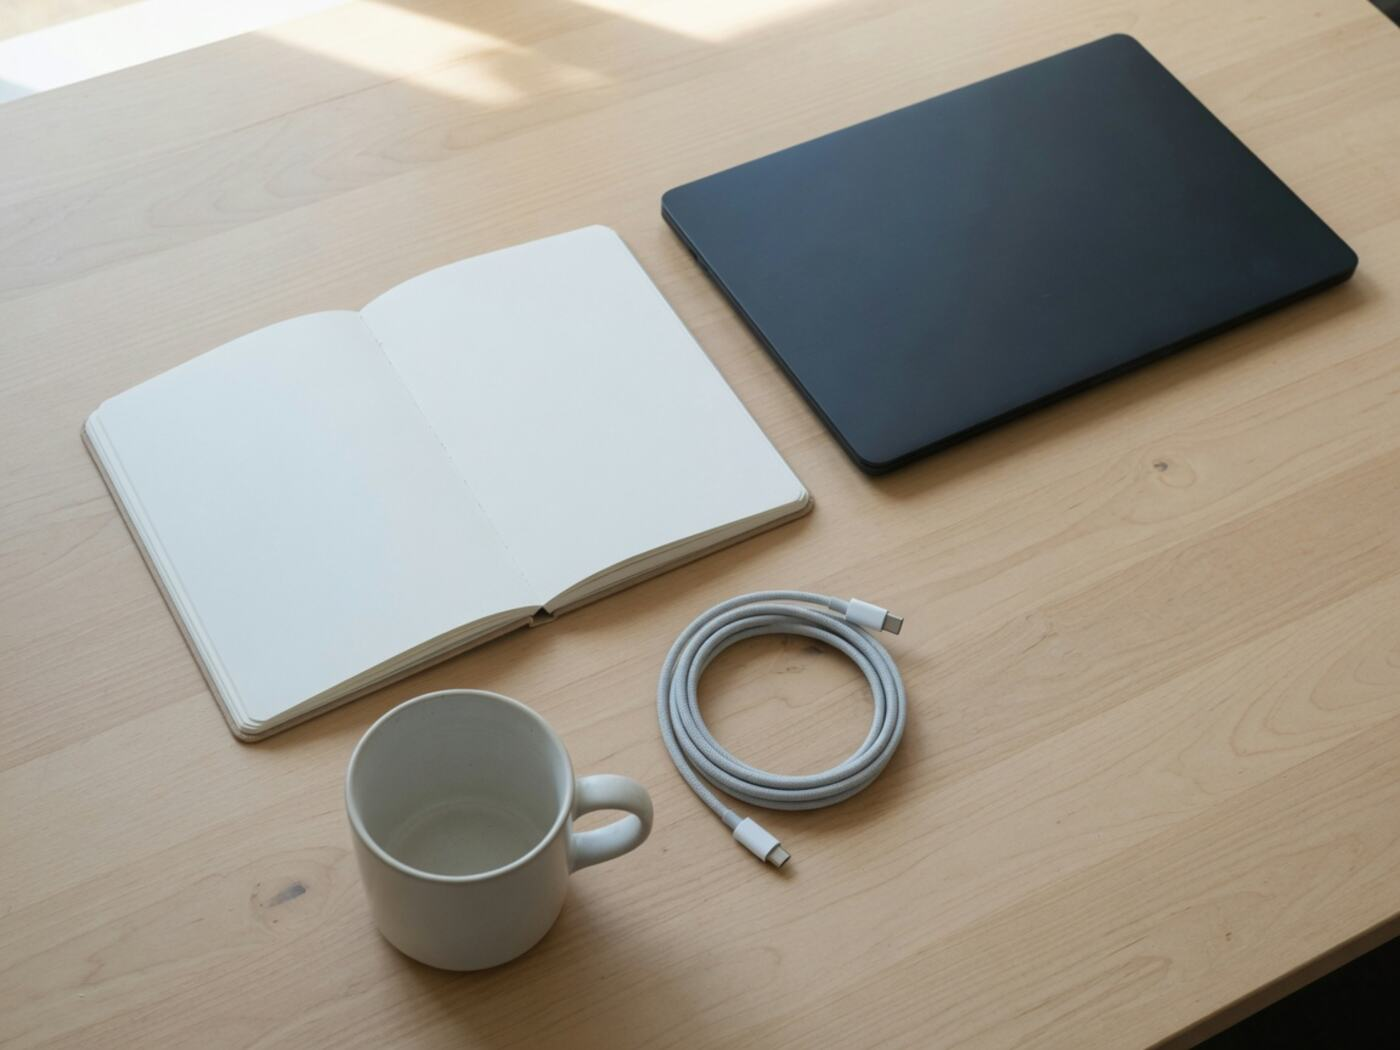
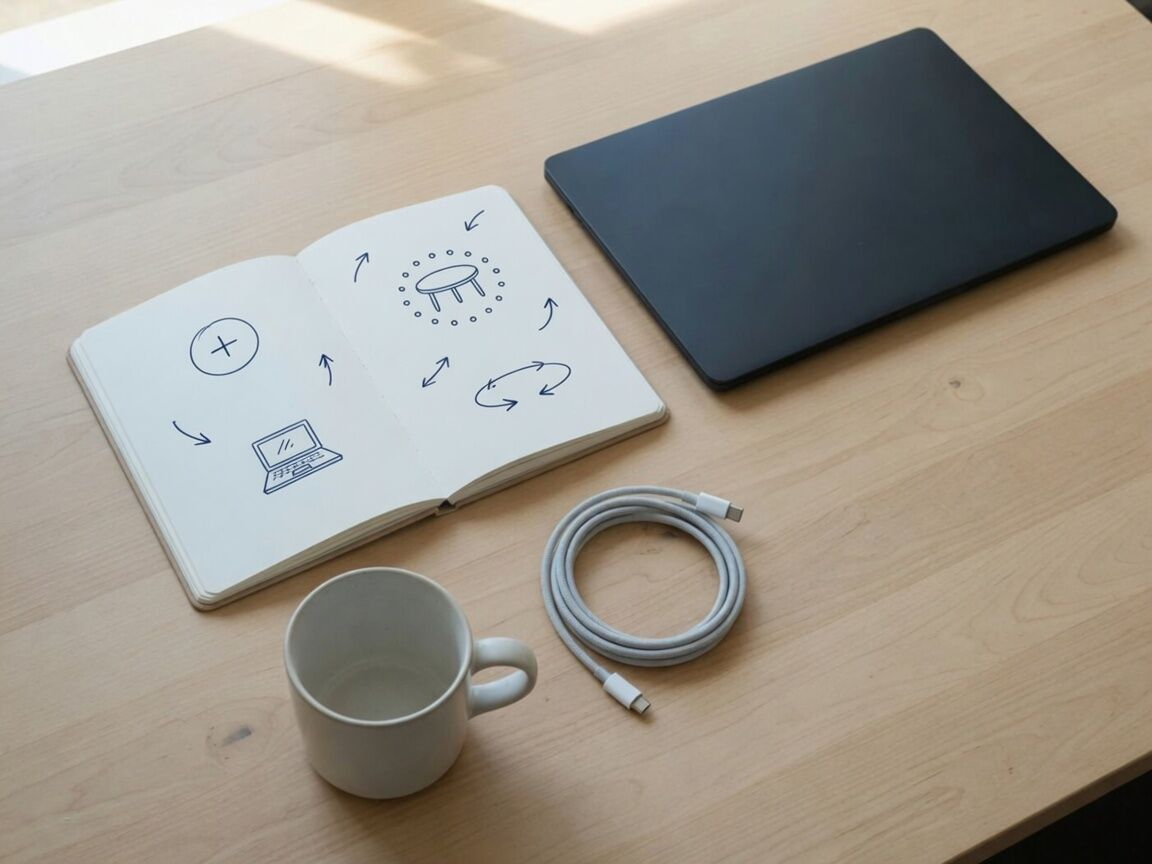
Make workshop option 1 the live look and doodle the table notebook.
Homepage uses the Berlin daylight room and a close-up with simple
peer-group sketches on the open pages.

diff --git a/assets/site.css b/assets/site.css
@@ -6,21 +6,21 @@
 @font-face{font-family:Fraunces;font-style:italic;font-weight:400 500;font-display:swap;src:url(/assets/fonts/fraunces-italic-latin-ext.woff2) format("woff2");unicode-range:U+0100-02BA,U+02BD-02C5,U+02C7-02CC,U+02CE-02D7,U+02DD-02FF,U+0304,U+0308,U+0329,U+1D00-1DBF,U+1E00-1E9F,U+1EF2-1EFF,U+2020,U+20A0-20AB,U+20AD-20C0,U+2113,U+2C60-2C7F,U+A720-A7FF}
 
 :root{
-  --paper:#f3ead6;
-  --paper-2:#e7dcc4;
-  --ink:#1b1812;
-  --muted:#5c564a;
-  --line:#d3c4a8;
-  --green:#143528;
-  --green-hover:#0e261c;
-  --lime:#ead9a6;
-  --brass:#a98443;
-  --white:#fbf6ea;
+  --paper:#f3f1ec;
+  --paper-2:#e6e3dc;
+  --ink:#171614;
+  --muted:#5a5852;
+  --line:#d0cdc6;
+  --green:#1a1a1a;
+  --green-hover:#000;
+  --lime:#e4e1d8;
+  --brass:#444;
+  --white:#fafaf7;
   --rust:#9a3f28;
-  --radius:4px;
+  --radius:0;
   --max:1120px;
   --font:"Figtree",system-ui,sans-serif;
-  --display:"Fraunces",Georgia,serif;
+  --display:"Figtree",system-ui,sans-serif;
 }
 *{box-sizing:border-box}
 html{scroll-behavior:smooth;scroll-padding-top:96px}
@@ -32,7 +32,7 @@ button{cursor:pointer}
 button:disabled{cursor:wait;opacity:.55}
 a:focus-visible,button:focus-visible,input:focus-visible,textarea:focus-visible,select:focus-visible,summary:focus-visible{outline:3px solid var(--brass);outline-offset:4px}
 h1,h2,h3,p{margin:0}
-h1,h2,h3{font-family:var(--display);font-weight:500;line-height:1.08;letter-spacing:-.03em}
+h1,h2,h3{font-family:var(--display);font-weight:650;line-height:1.08;letter-spacing:-.04em}
 h2{font-size:clamp(34px,4.4vw,52px)}
 h3{font-size:24px;letter-spacing:-.02em}
 p+p{margin-top:14px}
@@ -50,7 +50,7 @@ p+p{margin-top:14px}
 .skip:focus{top:10px}
 .preview-bar{background:#e4d8bc;color:#534b3c;text-align:center;font-size:12px;padding:8px 16px;border-bottom:1px solid var(--line);line-height:1.5}
 .preview-bar strong{font-weight:700}
-.header{position:sticky;top:0;z-index:20;background:rgba(243,234,214,.92);backdrop-filter:saturate(1.15) blur(12px);border-bottom:1px solid var(--line)}
+.header{position:sticky;top:0;z-index:20;background:rgba(243,241,236,.94);backdrop-filter:saturate(1.15) blur(12px);border-bottom:1px solid var(--line)}
 .nav{height:76px;display:flex;align-items:center;justify-content:space-between;gap:24px}
 .brand{display:inline-flex;align-items:center;gap:10px;text-decoration:none;white-space:nowrap;font-size:17px;font-weight:650;letter-spacing:-.03em}
 .brand-symbol{display:flex;align-items:center;justify-content:center;width:28px;height:28px;border:1.5px solid var(--green);border-radius:50%;font-size:20px;line-height:1;color:var(--green);font-weight:500;background:var(--white)}
@@ -59,7 +59,7 @@ p+p{margin-top:14px}
 .nav-links{display:flex;gap:22px;align-items:center}
 .nav-links>a:not(.btn){font-size:14px;text-decoration:none;min-height:44px;display:inline-flex;align-items:center}
 .nav-links>a:not(.btn):hover{text-decoration:underline;text-underline-offset:5px}
-.btn{min-height:48px;display:inline-flex;align-items:center;justify-content:center;gap:16px;border:1px solid var(--green);border-radius:2px;background:var(--green);color:var(--white);padding:12px 20px;text-decoration:none;font-weight:600;font-size:14px;line-height:1.35;letter-spacing:.01em;transition:background .16s,transform .16s}
+.btn{min-height:48px;display:inline-flex;align-items:center;justify-content:center;gap:16px;border:1px solid var(--green);border-radius:0;background:var(--green);color:var(--white);padding:12px 20px;text-decoration:none;font-weight:600;font-size:14px;line-height:1.35;letter-spacing:.01em;transition:background .16s,transform .16s}
 .btn:hover{background:var(--green-hover);transform:translateY(-1px)}
 .btn-small{min-height:44px;padding:10px 16px;font-size:13px}
 .btn-outline{background:transparent;color:var(--green)}
@@ -67,34 +67,34 @@ p+p{margin-top:14px}
 .arrow{font-size:18px;line-height:1}
 .text-link{display:inline-flex;align-items:center;gap:10px;font-size:14px;text-decoration:underline;text-underline-offset:5px;min-height:44px}
 
-.hero-bleed{position:relative;height:min(58vh,640px);min-height:340px;overflow:hidden;background:#12160f}
-.hero-bleed img{width:100%;height:100%;object-fit:cover;object-position:center 62%;display:block}
+.hero-bleed{position:relative;height:min(50vh,560px);min-height:300px;overflow:hidden;background:#1a1a1a}
+.hero-bleed img{width:100%;height:100%;object-fit:cover;object-position:center 55%;display:block}
 .hero-bleed-caption{position:absolute;left:0;right:0;bottom:0;margin:0;padding:28px max(32px,calc((100% - var(--max))/2)) 22px;background:linear-gradient(transparent,rgba(18,16,10,.72));color:#f6efe0;font-size:11px;letter-spacing:.2em;text-transform:uppercase;font-weight:600}
 .hero{display:grid;grid-template-columns:1.05fr .95fr;align-items:center;gap:56px;padding:48px 0 36px}
 .hero h1{font-size:clamp(46px,5.6vw,76px);font-weight:500;letter-spacing:-.045em;line-height:1.02;margin-top:18px}
-.hero h1 em{font-style:italic;font-weight:400;color:var(--green);letter-spacing:-.04em}
+.hero h1 em{font-style:normal;font-weight:650;color:var(--green);letter-spacing:-.04em}
 .hero .lead{margin-top:22px;color:var(--muted);max-width:34em;font-size:18px;line-height:1.7}
 .hero .lead strong{color:var(--ink);font-weight:600}
 .hero-actions{display:flex;gap:20px;align-items:center;margin-top:26px;flex-wrap:wrap}
 .hero-micro{font-size:13px;color:var(--muted);margin-top:14px;max-width:28em;line-height:1.6}
 
-.ticket{position:relative;background:var(--white);border:1px solid #cbbfa6;border-radius:6px;box-shadow:0 24px 50px -28px #3a3220;padding:0 0 22px;overflow:hidden}
+.ticket{position:relative;background:var(--white);border:1px solid #111;border-radius:0;box-shadow:none;padding:0 0 22px;overflow:hidden}
 .ticket-head{display:flex;justify-content:space-between;align-items:center;padding:14px 22px 12px}
 .ticket-label{font-size:10px;letter-spacing:.18em;color:var(--muted);font-weight:700}
 .ticket-no{font-variant-numeric:tabular-nums;font-size:12px;color:var(--muted)}
 .ticket-photo{position:relative;margin:0 14px;border-radius:3px;overflow:hidden;height:210px}
 .ticket-photo img{width:100%;height:100%;object-fit:cover;display:block;filter:saturate(.92)}
-.ticket-photo .motif-note{position:absolute;right:10px;bottom:10px;margin:0;background:rgba(251,246,234,.88);padding:4px 8px;font-family:var(--display);font-style:italic;font-size:13px;color:var(--green)}
+.ticket-photo .motif-note{position:absolute;right:10px;bottom:10px;margin:0;background:rgba(250,250,247,.92);padding:4px 8px;font-family:var(--font);font-style:normal;font-size:12px;font-weight:650;color:var(--green)}
 .circle-area,.table-motif,.table-inner,.seat{display:none}
 .ticket-title{font-size:28px;margin:16px 22px 0;letter-spacing:-.03em}
 .ticket-sub{font-size:13px;color:var(--muted);margin:4px 22px 0}
 .ticket-dates{margin:16px 22px 0;padding:14px 0;display:grid;grid-template-columns:1fr 1fr;border-top:1px dashed var(--line);border-bottom:1px dashed var(--line)}
 .ticket-date+.ticket-date{border-left:1px solid var(--line);padding-left:20px}
 .ticket-date .day{font-size:10px;letter-spacing:.16em;color:var(--muted);font-weight:700}
-.ticket-date .date{font-family:var(--display);font-size:32px;letter-spacing:-.03em;line-height:1.2}
+.ticket-date .date{font-family:var(--font);font-size:32px;letter-spacing:-.04em;line-height:1.2;font-weight:650}
 .ticket-date .time{font-size:13px;color:var(--muted)}
 .ticket-bottom{display:flex;align-items:center;justify-content:space-between;padding:14px 22px 0;font-size:13px;color:var(--muted)}
-.ticket-bottom strong{font-family:var(--display);font-size:28px;letter-spacing:-.03em;color:var(--green);font-weight:500}
+.ticket-bottom strong{font-family:var(--font);font-size:28px;letter-spacing:-.04em;color:var(--green);font-weight:650}
 
 .facts{display:grid;grid-template-columns:repeat(4,1fr);padding:0;border:1px solid var(--line);background:var(--white);margin:28px 0 8px}
 .fact{padding:16px 18px;border-left:1px solid var(--line)}
@@ -113,7 +113,7 @@ p+p{margin-top:14px}
 .fit-note strong{font-weight:650}
 
 .format-section{background:var(--green);color:var(--white);border-top:0;position:relative;padding:0 0 48px}
-.format-bleed{margin:0;height:min(42vh,420px);overflow:hidden}
+.format-bleed{display:none}
 .format-bleed img{width:100%;height:100%;object-fit:cover;object-position:center 55%;display:block}
 .format-section .wrap{padding-top:40px}
 .format-section .section-intro{grid-template-columns:1fr;max-width:36rem;gap:12px;margin-bottom:28px}
@@ -126,7 +126,7 @@ p+p{margin-top:14px}
 .format-step h3{font-size:28px;margin-bottom:12px}
 .format-step p{font-size:15px;line-height:1.75;color:#d7e0d3}
 .format-footer{display:flex;align-items:baseline;justify-content:space-between;gap:28px;border-top:1px solid #3d5a48;margin-top:28px;padding-top:22px}
-.format-footer p{font-family:var(--display);font-style:italic;font-size:26px;line-height:1.35;color:var(--lime);font-weight:400}
+.format-footer p{font-family:var(--font);font-style:normal;font-size:24px;line-height:1.35;color:var(--lime);font-weight:650}
 .format-footer span{font-size:13px;color:#c5d0c2;max-width:280px;text-align:right;line-height:1.5}
 
 .sessions{display:grid;grid-template-columns:1fr 1fr;gap:16px}
@@ -151,7 +151,7 @@ p+p{margin-top:14px}
 .host-layout{display:grid;grid-template-columns:.9fr 1.1fr;gap:48px;align-items:start}
 .host-layout h2{margin:12px 0 16px}
 .host-label{display:inline-flex;gap:12px;align-items:center;margin-top:8px}
-.host-photo{margin:18px 0 16px}
+.host-photo{display:none}
 .host-photo img{width:100%;aspect-ratio:4/3;object-fit:cover;display:block;border:1px solid var(--line)}
 .host-still{width:72px;height:72px;object-fit:cover;border:1px solid var(--line)}
 .monogram{display:none}
@@ -171,7 +171,7 @@ p+p{margin-top:14px}
 .price-card-header{display:flex;justify-content:space-between;align-items:center;gap:16px}
 .price-card-header .eyebrow{font-size:10px;letter-spacing:.16em}
 .pill{font-size:11px;border:1px solid var(--line);border-radius:99px;padding:4px 10px;color:var(--muted);white-space:nowrap}
-.price-number{font-family:var(--display);font-size:84px;letter-spacing:-.05em;font-weight:500;line-height:.9;margin-top:18px}
+.price-number{font-family:var(--font);font-size:84px;letter-spacing:-.05em;font-weight:650;line-height:.9;margin-top:18px}
 .price-number span{font-size:36px;vertical-align:top;line-height:1.5;letter-spacing:-.03em;margin-right:2px}
 .price-plus{font-family:var(--display);font-size:22px;color:var(--green);margin-top:4px;letter-spacing:-.02em}
 .price-caption{font-size:13px;color:var(--muted);margin-top:8px}

diff --git a/index.html b/index.html
@@ -3,7 +3,7 @@
 <head>
 <meta charset="utf-8">
 <meta name="viewport" content="width=device-width, initial-scale=1">
-<meta name="theme-color" content="#f3ead6">
+<meta name="theme-color" content="#f3f1ec">
 <meta name="description" content="A small Berlin peer group for solopreneurs and indie hackers building businesses with AI. Two in-person sessions: 10 & 24 November 2026. Apply for the founding pilot: €59 + VAT.">
 <meta name="robots" content="index,follow" id="robots-meta">
 <meta property="og:title" content="Solo + AI Berlin — Build your business with AI. Not alone.">
@@ -29,8 +29,8 @@
 <noscript><div class="noscript">You can read everything below without JavaScript. The application form needs JavaScript to validate your answers and continue to payment.</div></noscript>
 <main id="main">
 <section class="hero-bleed">
-  <img src="/assets/hero.jpg" width="2400" height="1350" alt="A rain-wet Prenzlauer Berg street at dusk, Altbau windows lit gold, bicycles along the fence.">
-  <p class="hero-bleed-caption">Prenzlauer Berg · Tuesday evenings</p>
+  <img src="/assets/hero.jpg" width="2400" height="1350" alt="A sunlit Berlin table with two closed laptops, notebooks, a plant, and four chairs.">
+  <p class="hero-bleed-caption">Bring the actual work</p>
 </section>
 <div class="wrap">
 <div class="status-banner" id="return-banner" hidden tabindex="-1"><h2>Your place is not confirmed yet.</h2><p>If you completed payment on Stripe, we’ll match it to your application and review your answers. A return to this page is not proof of payment. We’ll email the decision; the pilot and venue will be confirmed by 3 November 2026.</p></div>
@@ -44,7 +44,7 @@
 </div>
 <aside class="ticket" aria-label="Founding pilot: 10 and 24 November 2026, 18:30 to 21:00 Berlin time. 59 euros plus VAT for both sessions.">
 <div class="ticket-head"><span class="ticket-label">THE FOUNDING CIRCLE</span><span class="ticket-no">BER / 001</span></div>
-<div class="ticket-photo"><img src="/assets/table.jpg" width="800" height="533" alt="A round table of notebooks and empty chairs by a rain-wet Berlin window."><span class="motif-note">A circle, not an audience.</span></div>
+<div class="ticket-photo"><img src="/assets/table.jpg" width="800" height="533" alt="A tidy desk: closed laptop, mug, cable, and a notebook with simple doodles of a plus, a table, and a laptop."><span class="motif-note">A circle, not an audience.</span></div>
 <h2 class="ticket-title">Two Tuesdays. Real work.</h2><p class="ticket-sub">10–12 participants + your host · In English</p>
 <div class="ticket-dates"><div class="ticket-date"><div class="day">TUESDAY</div><div class="date">10 Nov</div><div class="time">18:30–21:00</div></div><div class="ticket-date"><div class="day">TUESDAY</div><div class="date">24 Nov</div><div class="time">18:30–21:00</div></div></div>
 <div class="ticket-bottom"><span>2026 · Berlin time (CET)</span><span><strong>€59</strong> + VAT / both sessions</span></div>
